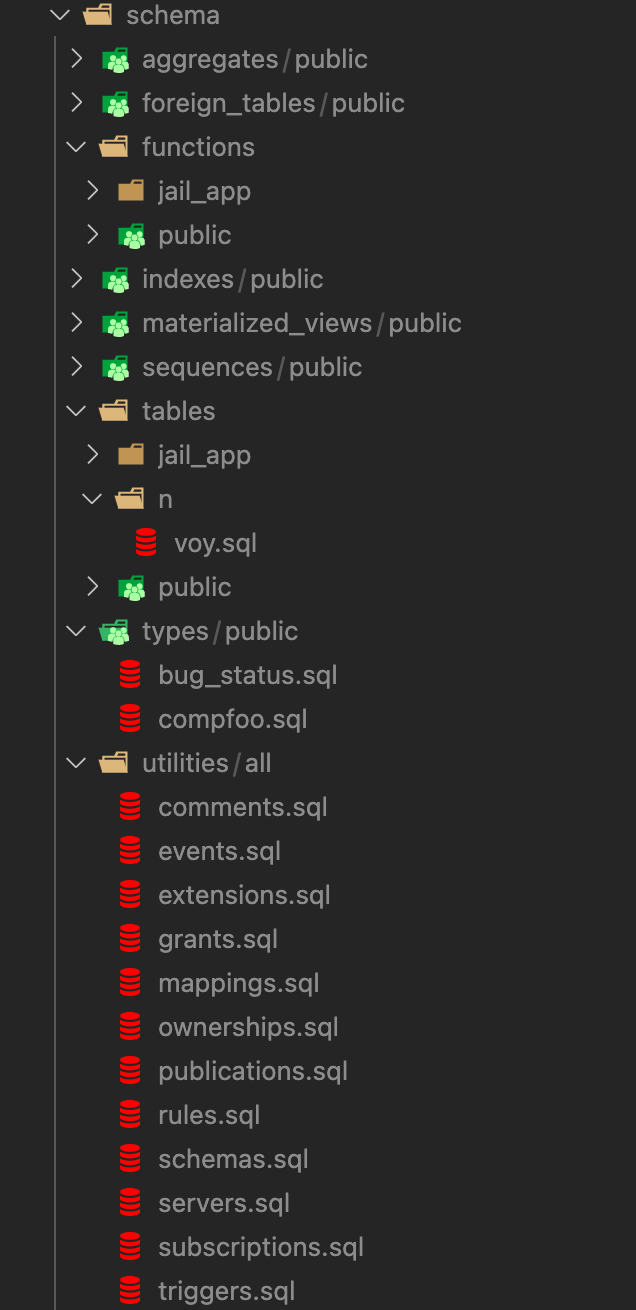
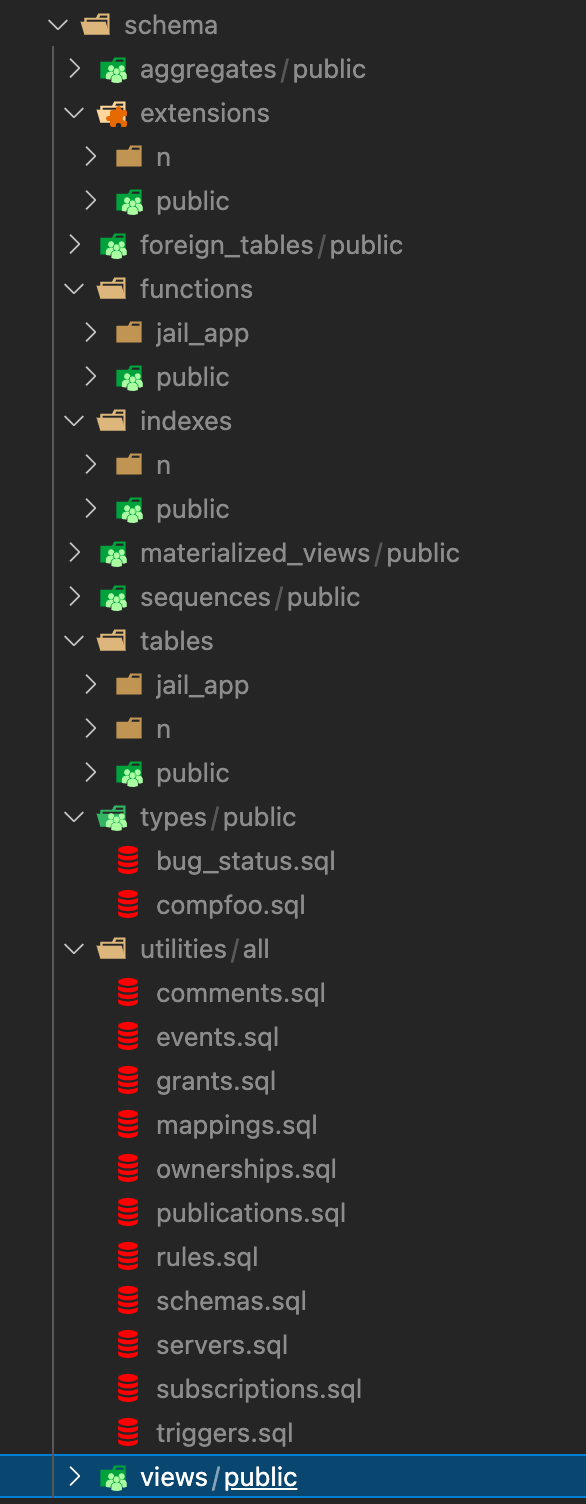
parse extensions separately, updated requirements

Changed region(s): [[0.0, 0.0, 1.0, 1.0], [0.6143, 0.2443, 0.7372, 0.2748], [0.6758, 0.3664, 0.7679, 0.3969]]

diff --git a/pg_schema_dump_parser.py b/pg_schema_dump_parser.py
@@ -60,6 +60,7 @@ def parse_schema(directory: str, object_type: str, schema: str, object_name: str
             with open(file_name, 'r+', encoding='utf-8') as file:
                 current_content = [e+';\n' for e in read_in_chunk(file, ';\n') if e]
                 line_found = any(definition in line for line in current_content)
+                # if definition does not exist, append it to the schema file
                 if not line_found:
                     file.seek(0, os.SEEK_END)
                     file.write(definition)
@@ -81,6 +82,13 @@ def parse_indexes(stream: str, object_type: str, append: bool = False) -> None:
     index_name = re.match(r"^CREATE .*INDEX (\w+) ON (\w+).(\w+)", stream, re.I).group(1)
     schema_name = re.match(r"^CREATE .*INDEX (\w+) ON (\w+).(\w+)", stream, re.I).group(2)
     parse_schema(args.directory, object_type, schema_name, index_name, stream, append)
+
+
+def parse_extensions(stream: str, object_type: str, append: bool = False) -> None:
+    """ Parses extensions """
+    extension_name = re.match(r"^CREATE EXTENSION.* (\w+) WITH SCHEMA (\w+)", stream, re.I).group(1)
+    schema_name = re.match(r"^CREATE EXTENSION.* (\w+) WITH SCHEMA (\w+)", stream, re.I).group(2)
+    parse_schema(args.directory, object_type, schema_name, extension_name, stream, append)
 
 
 def parse_function(host: str, dbname: str, port: str, user: str, password: str, stream: str, object_type: str, append: bool = False) -> None:
@@ -183,7 +191,7 @@ if __name__ == "__main__":
             if "SET DEFAULT" in segment:
                 parse_utility(segment, 'defaults')
             if segment.startswith("CREATE EXTENSION"):
-                parse_utility(segment, 'extensions')
+                parse_extensions(segment, 'extensions')
             if segment.startswith("CREATE SERVER"):
                 parse_utility(segment, 'servers')
             if segment.startswith("COMMENT"):

diff --git a/README.md b/README.md
@@ -1,8 +1,13 @@
 # pg_schema_dump_parser
 Generates nicely parsed schema files.
 
+Every schema qualified object is parsed into its own schema file while non-schema qualified objects are parsed as utilities with
+a generic schema name `all`.
+
 ## Requirements
-- Requires at least python3
+- python3.9 and above
+- pg_dump
+- psql
 
 ## Sample parsed schema
 ![plot](sample_schema.png)
